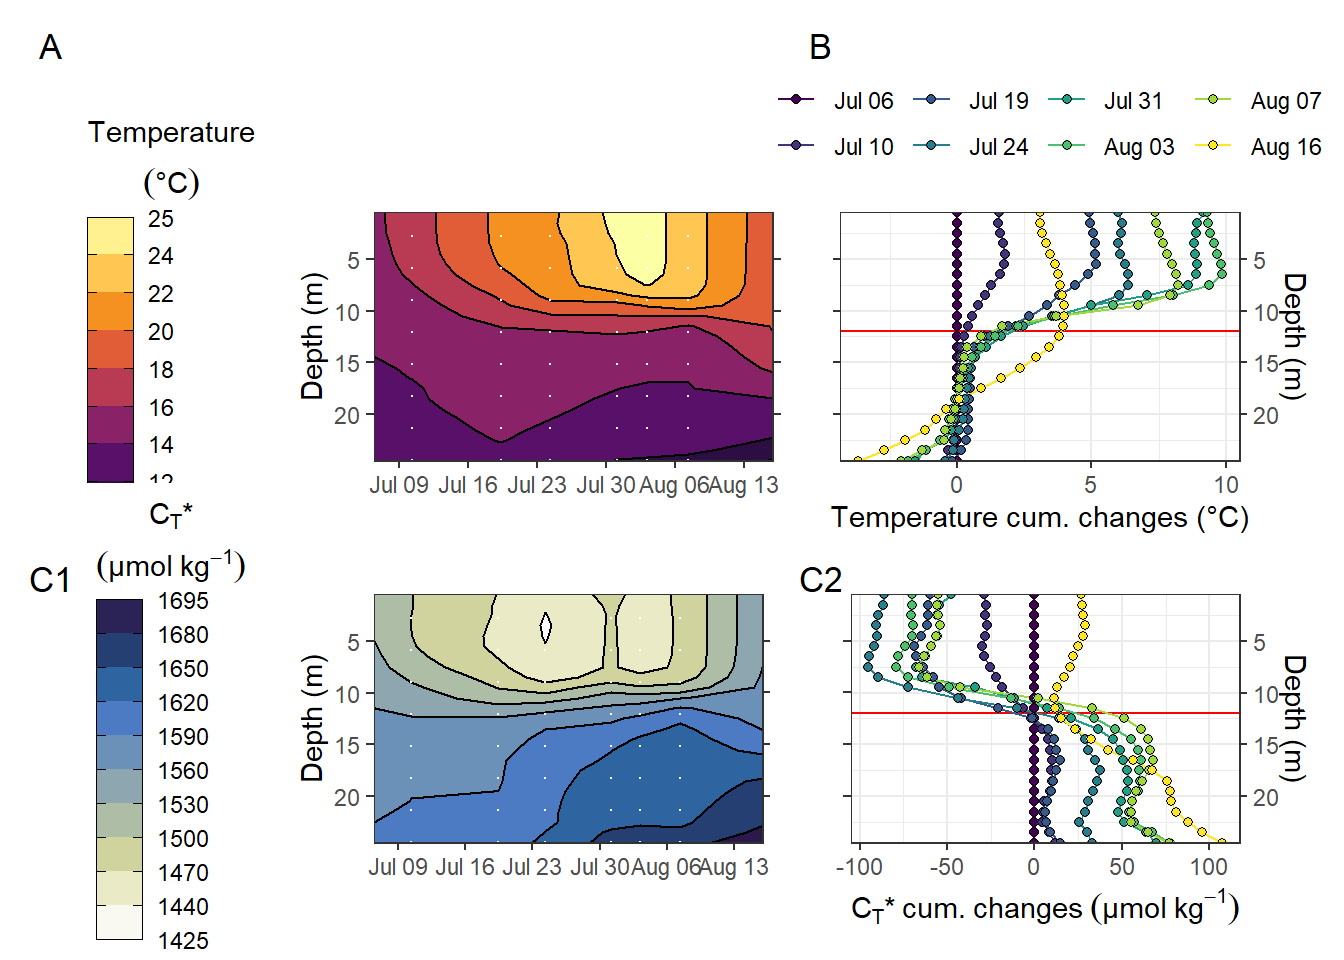
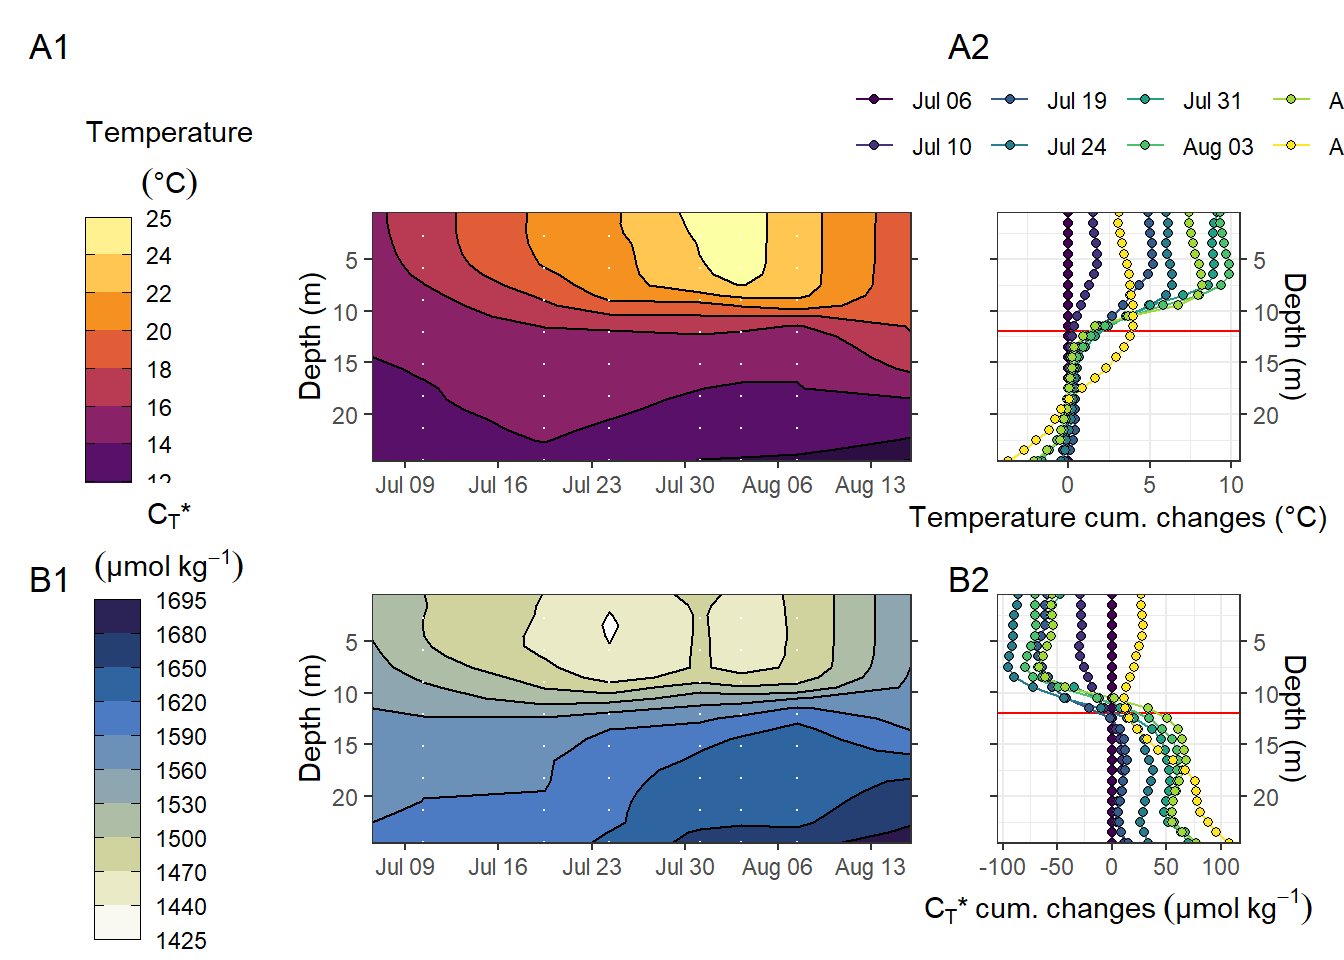
Build site.

diff --git a/docs/CT_dynamics.html b/docs/CT_dynamics.html
@@ -553,16 +553,16 @@ This reproducible <a href="http://rmarkdown.rstudio.com">R Markdown</a> analysis
 <div class="panel panel-default">
 <div class="panel-heading">
 <p class="panel-title">
-<a data-toggle="collapse" data-parent="#workflowr-checks" href="#strongRepositoryversionstrongahrefhttpsgithubcomjensdanielmuellerBloomSailtree9ba19ce0442e27bef5b19cfde42df4cb547ddc04targetblank9ba19cea"> <span class="glyphicon glyphicon-ok text-success" aria-hidden="true"></span> <strong>Repository version:</strong> <a href="https://github.com/jens-daniel-mueller/BloomSail/tree/9ba19ce0442e27bef5b19cfde42df4cb547ddc04" target="_blank">9ba19ce</a> </a>
+<a data-toggle="collapse" data-parent="#workflowr-checks" href="#strongRepositoryversionstrongahrefhttpsgithubcomjensdanielmuellerBloomSailtreece737d34ef2df80e899247c465f96f3b925b1c3etargetblankce737d3a"> <span class="glyphicon glyphicon-ok text-success" aria-hidden="true"></span> <strong>Repository version:</strong> <a href="https://github.com/jens-daniel-mueller/BloomSail/tree/ce737d34ef2df80e899247c465f96f3b925b1c3e" target="_blank">ce737d3</a> </a>
 </p>
 </div>
[2 lines of base64/hex data omitted]
 <div class="panel-body">
 <p>
 Great! You are using Git for version control. Tracking code development and connecting the code version to the results is critical for reproducibility.
 </p>
 <p>
-The results in this page were generated with repository version <a href="https://github.com/jens-daniel-mueller/BloomSail/tree/9ba19ce0442e27bef5b19cfde42df4cb547ddc04" target="_blank">9ba19ce</a>. See the <em>Past versions</em> tab to see a history of the changes made to the R Markdown and HTML files.
+The results in this page were generated with repository version <a href="https://github.com/jens-daniel-mueller/BloomSail/tree/ce737d34ef2df80e899247c465f96f3b925b1c3e" target="_blank">ce737d3</a>. See the <em>Past versions</em> tab to see a history of the changes made to the R Markdown and HTML files.
 </p>
 <p>
 Note that you need to be careful to ensure that all relevant files for the analysis have been committed to Git prior to generating the results (you can use <code>wflow_publish</code> or <code>wflow_git_commit</code>). workflowr only checks the R Markdown file, but you know if there are other scripts or data files that it depends on. Below is the status of the Git repository when the results were generated:
@@ -571,6 +571,7 @@ Note that you need to be careful to ensure that all relevant files for the analy
 Ignored files:
     Ignored:    .Rhistory
     Ignored:    .Rproj.user/
+    Ignored:    analysis/figure/
     Ignored:    data/input/
     Ignored:    data/intermediate/
     Ignored:    data/output_submission/
@@ -615,6 +616,40 @@ Message
 </tr>
 </thead>
 <tbody>
+<tr>
+<td>
+Rmd
+</td>
+<td>
+<a href="https://github.com/jens-daniel-mueller/BloomSail/blob/ce737d34ef2df80e899247c465f96f3b925b1c3e/analysis/CT_dynamics.Rmd" target="_blank">ce737d3</a>
+</td>
+<td>
+jens-daniel-mueller
+</td>
+<td>
+2020-11-04
+</td>
+<td>
+added panel annotation
+</td>
+</tr>
+<tr>
+<td>
+html
+</td>
+<td>
+<a href="https://rawcdn.githack.com/jens-daniel-mueller/BloomSail/101cf30eeefb3c47a6e11d3ee8f7474ade46623e/docs/CT_dynamics.html" target="_blank">101cf30</a>
+</td>
+<td>
+jens-daniel-mueller
+</td>
+<td>
+2020-11-04
+</td>
+<td>
+Build site.
+</td>
+</tr>
 <tr>
 <td>
 Rmd
